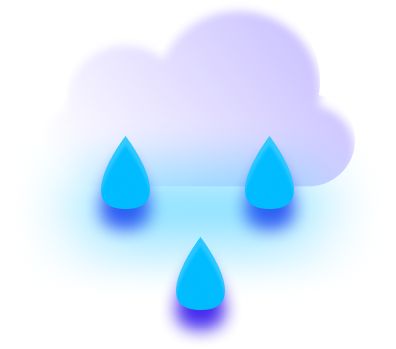
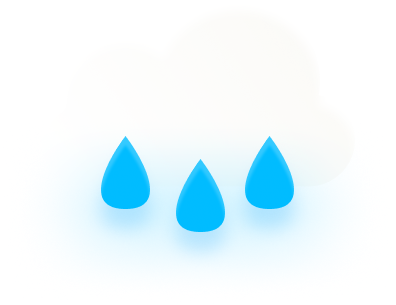
implemented main weather functionality per city

diff --git a/src/Components/WeatherApp/WeatherApp.jsx b/src/Components/WeatherApp/WeatherApp.jsx
@@ -1,5 +1,5 @@
 // asset and styling imports
-import React, { useState } from 'react';
+import React, { useState, useEffect } from 'react';
 import sunny_icon from '../Assets/forecast_icons/sunny.png';
 import cloudy_icon from '../Assets/forecast_icons/cloudy.png';
 import partly_cloudy_icon from '../Assets/forecast_icons/partly_cloudy.png';
@@ -15,70 +15,75 @@ import main_rain from '../Assets/main_icons/main_rain.png';
 import main_shower_rain from '../Assets/main_icons/main_shower_rain.png';
 import main_thunderstorm from '../Assets/main_icons/main_thunderstorm.png';
 import main_snow from '../Assets/main_icons/main_snow.png';
-
 import './WeatherApp.css';
 
+const api_key="d05c1b85bb5e3f1655de6eb4621044d7";
+const city = "Austria";
+const url = `https://api.openweathermap.org/data/2.5/weather?q=${city}&units=Metric&appid=d05c1b85bb5e3f1655de6eb4621044d7`;
+
 export const WeatherApp = () => {
-
-  let api_key="d05c1b85bb5e3f1655de6eb4621044d7";
   const [wicon, setWicon] = useState(sunny_icon);
-  const search = async () => {
-    const element =document.getElementsByClassName("cityInput");
-    if(element[0].value==="")
-    {
-      return 0;
-    }
-    let url = `https://api.openweathermap.org/data/2.5/weather?q=${element[0].value}&units=Metric&appid=${api_key}`;
+  const [data, setData] = useState(null);
 
-    let response = await fetch(url);
-    let data = await response.json();
-    const humidity =document.getElementsByClassName("humidity-percent");
-    const wind =document.getElementsByClassName("wind-rate");
-    const temperature =document.getElementsByClassName("weather-temp");
-    const location =document.getElementsByClassName("weather-location");
-    const temp_high =document.getElementsByClassName("weather-temp-high");
-    const temp_low =document.getElementsByClassName("weather-temp-low");
-    const cloudiness =document.getElementsByClassName("cloudiness");
+  useEffect(() => {
+    const fetchData = async () => {
+      try {
+        const response = await fetch(url);
+        const jsonData = await response.json();
+        setData(jsonData);
+      } catch (error) {
+        console.error('Error fetching data:', error);
+      }
+    };
 
+    fetchData();
+  }, []);
 
-    humidity[0].innerHTML = data.main.humidity + " %";
-    wind[0].innerHTML = Math.round(data.wind.speed) + " km/h";
-    temperature[0].innerHTML = Math.round(data.main.temp * 10) / 10 + "°C";
-    location[0].innerHTML = data.name;
-    temp_high[0].innerHTML = Math.round(data.main.temp_max) + "°C";
-    temp_low[0].innerHTML = Math.round(data.main.temp_min) + "°C";
-    cloudiness[0].innerHTML = Math.round(data.clouds.all) + "%";
+useEffect(() => {
+    if (data) {
+      const iconCode = data.weather[0].icon;
+      switch (iconCode) {
+        case "01d":
+        case "01n":
+          setWicon(main_sunny);
+          break;
+        case "02d":
+        case "02n":
+          setWicon(main_partly_cloudy);
+          break;
+        case "03d":
+        case "03n":
+          setWicon(main_cloudy);
+          break;
+        case "04d":
+        case "04n":
+          setWicon(main_partly_cloudy);
+          break;
+        case "09d":
+        case "09n":
+          setWicon(main_shower_rain);
+          break;
+        case "10d":
+        case "10n":
+          setWicon(main_rain);
+          break;
+        case "11d":
+        case "11n":
+          setWicon(main_thunderstorm);
+          break;
+        case "13d":
+        case "13n":
+          setWicon(main_snow);
+          break;
+        default:
+          setWicon(main_cloudy);
+          break;
+      }
+    }
+  }, [data]);
 
-    if(data.weather[0].icon === "01d" || data.weather[0].icon  === "01n")
-    {
-      setWicon(sunny_icon);
-    }
-    else if(data.weather[0].icon === "02d" || data.weather[0].icon  === "02n")
-    {
-      setWicon(sunny_icon);
-    }
-    else if(data.weather[0].icon === "03d" || data.weather[0].icon  === "03n")
-    {
-      setWicon(sunny_icon);
-    }
-    else if(data.weather[0].icon === "04d" || data.weather[0].icon  === "04n")
-    {
-      setWicon(sunny_icon);
-    }
-    else if(data.weather[0].icon === "09d" || data.weather[0].icon  === "09n")
-    {
-      setWicon(sunny_icon);
-    }
-    else if(data.weather[0].icon === "10d" || data.weather[0].icon  === "10n")
-    {
-      setWicon(sunny_icon);
-    }
-    else if(data.weather[0].icon === "13d" || data.weather[0].icon  === "13n")
-    {
-      setWicon(sunny_icon);    }
-    else
-    {
-      setWicon(sunny_icon);    }
+  if (!data) {
+    return <div>Loading...</div>;
   }
   return (
     <div className="container">
@@ -96,7 +101,7 @@ export const WeatherApp = () => {
       <div className="bottom-container">
         <div className="current-temp-container">
           <div className="current-temp">22</div>
-          <img src={main_sunny} className="main-weather-icon" alt=" "></img>
+          <img src={wicon} className="main-weather-icon" alt=" "></img>
         </div>
         <div className="feels-like">Feels like 21&deg;</div>
         <div className="current-weather">Partly Cloudy</div>

diff --git a/src/Components/WeatherApp/temp.jsx b/src/Components/WeatherApp/temp.jsx
@@ -1,0 +1,59 @@
+const [wicon, setWicon] = useState(sunny_icon);
+const search = async () => {
+  const element =document.getElementsByClassName("cityInput");
+  if(element[0].value==="")
+  {
+    return 0;
+  }
+  let url = `https://api.openweathermap.org/data/2.5/weather?q=${city}&units=Metric&appid=${api_key}`;
+
+  let response = await fetch(url);
+  let data = await response.json();
+  const humidity =document.getElementsByClassName("humidity-percent");
+  const wind =document.getElementsByClassName("wind-rate");
+  const temperature =document.getElementsByClassName("weather-temp");
+  const location =document.getElementsByClassName("weather-location");
+  const temp_high =document.getElementsByClassName("weather-temp-high");
+  const temp_low =document.getElementsByClassName("weather-temp-low");
+  const cloudiness =document.getElementsByClassName("cloudiness");
+
+
+  humidity[0].innerHTML = data.main.humidity + " %";
+  wind[0].innerHTML = Math.round(data.wind.speed) + " km/h";
+  temperature[0].innerHTML = Math.round(data.main.temp * 10) / 10 + "°C";
+  location[0].innerHTML = data.name;
+  temp_high[0].innerHTML = Math.round(data.main.temp_max) + "°C";
+  temp_low[0].innerHTML = Math.round(data.main.temp_min) + "°C";
+  cloudiness[0].innerHTML = Math.round(data.clouds.all) + "%";
+
+  if(data.weather[0].icon === "01d" || data.weather[0].icon  === "01n")
+  {
+    setWicon(sunny_icon);
+  }
+  else if(data.weather[0].icon === "02d" || data.weather[0].icon  === "02n")
+  {
+    setWicon(sunny_icon);
+  }
+  else if(data.weather[0].icon === "03d" || data.weather[0].icon  === "03n")
+  {
+    setWicon(sunny_icon);
+  }
+  else if(data.weather[0].icon === "04d" || data.weather[0].icon  === "04n")
+  {
+    setWicon(sunny_icon);
+  }
+  else if(data.weather[0].icon === "09d" || data.weather[0].icon  === "09n")
+  {
+    setWicon(sunny_icon);
+  }
+  else if(data.weather[0].icon === "10d" || data.weather[0].icon  === "10n")
+  {
+    setWicon(sunny_icon);
+  }
+  else if(data.weather[0].icon === "13d" || data.weather[0].icon  === "13n")
+  {
+    setWicon(sunny_icon);    }
+  else
+  {
+    setWicon(sunny_icon);    }
+}
